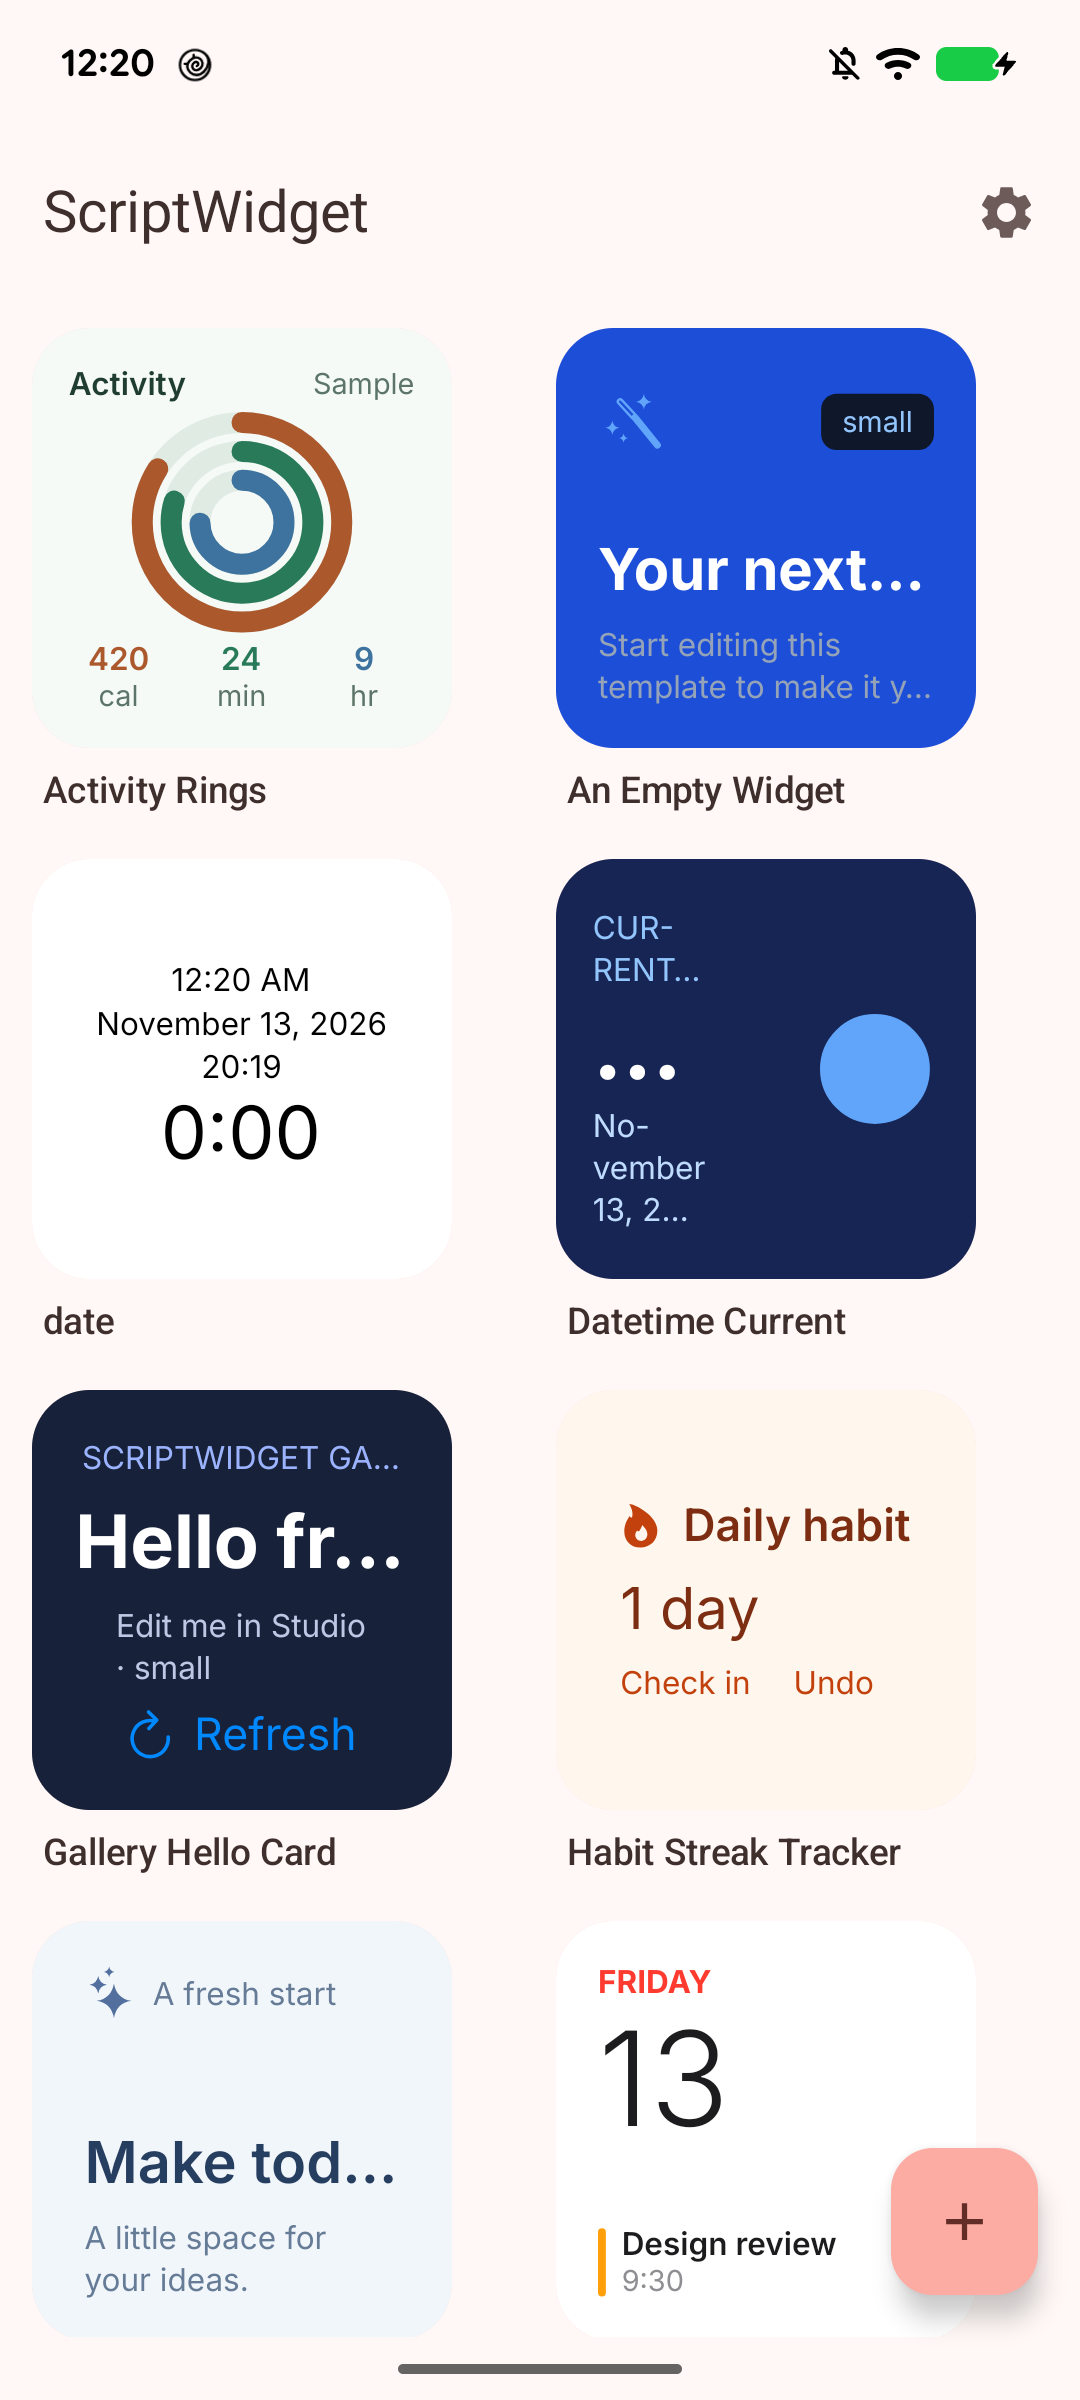
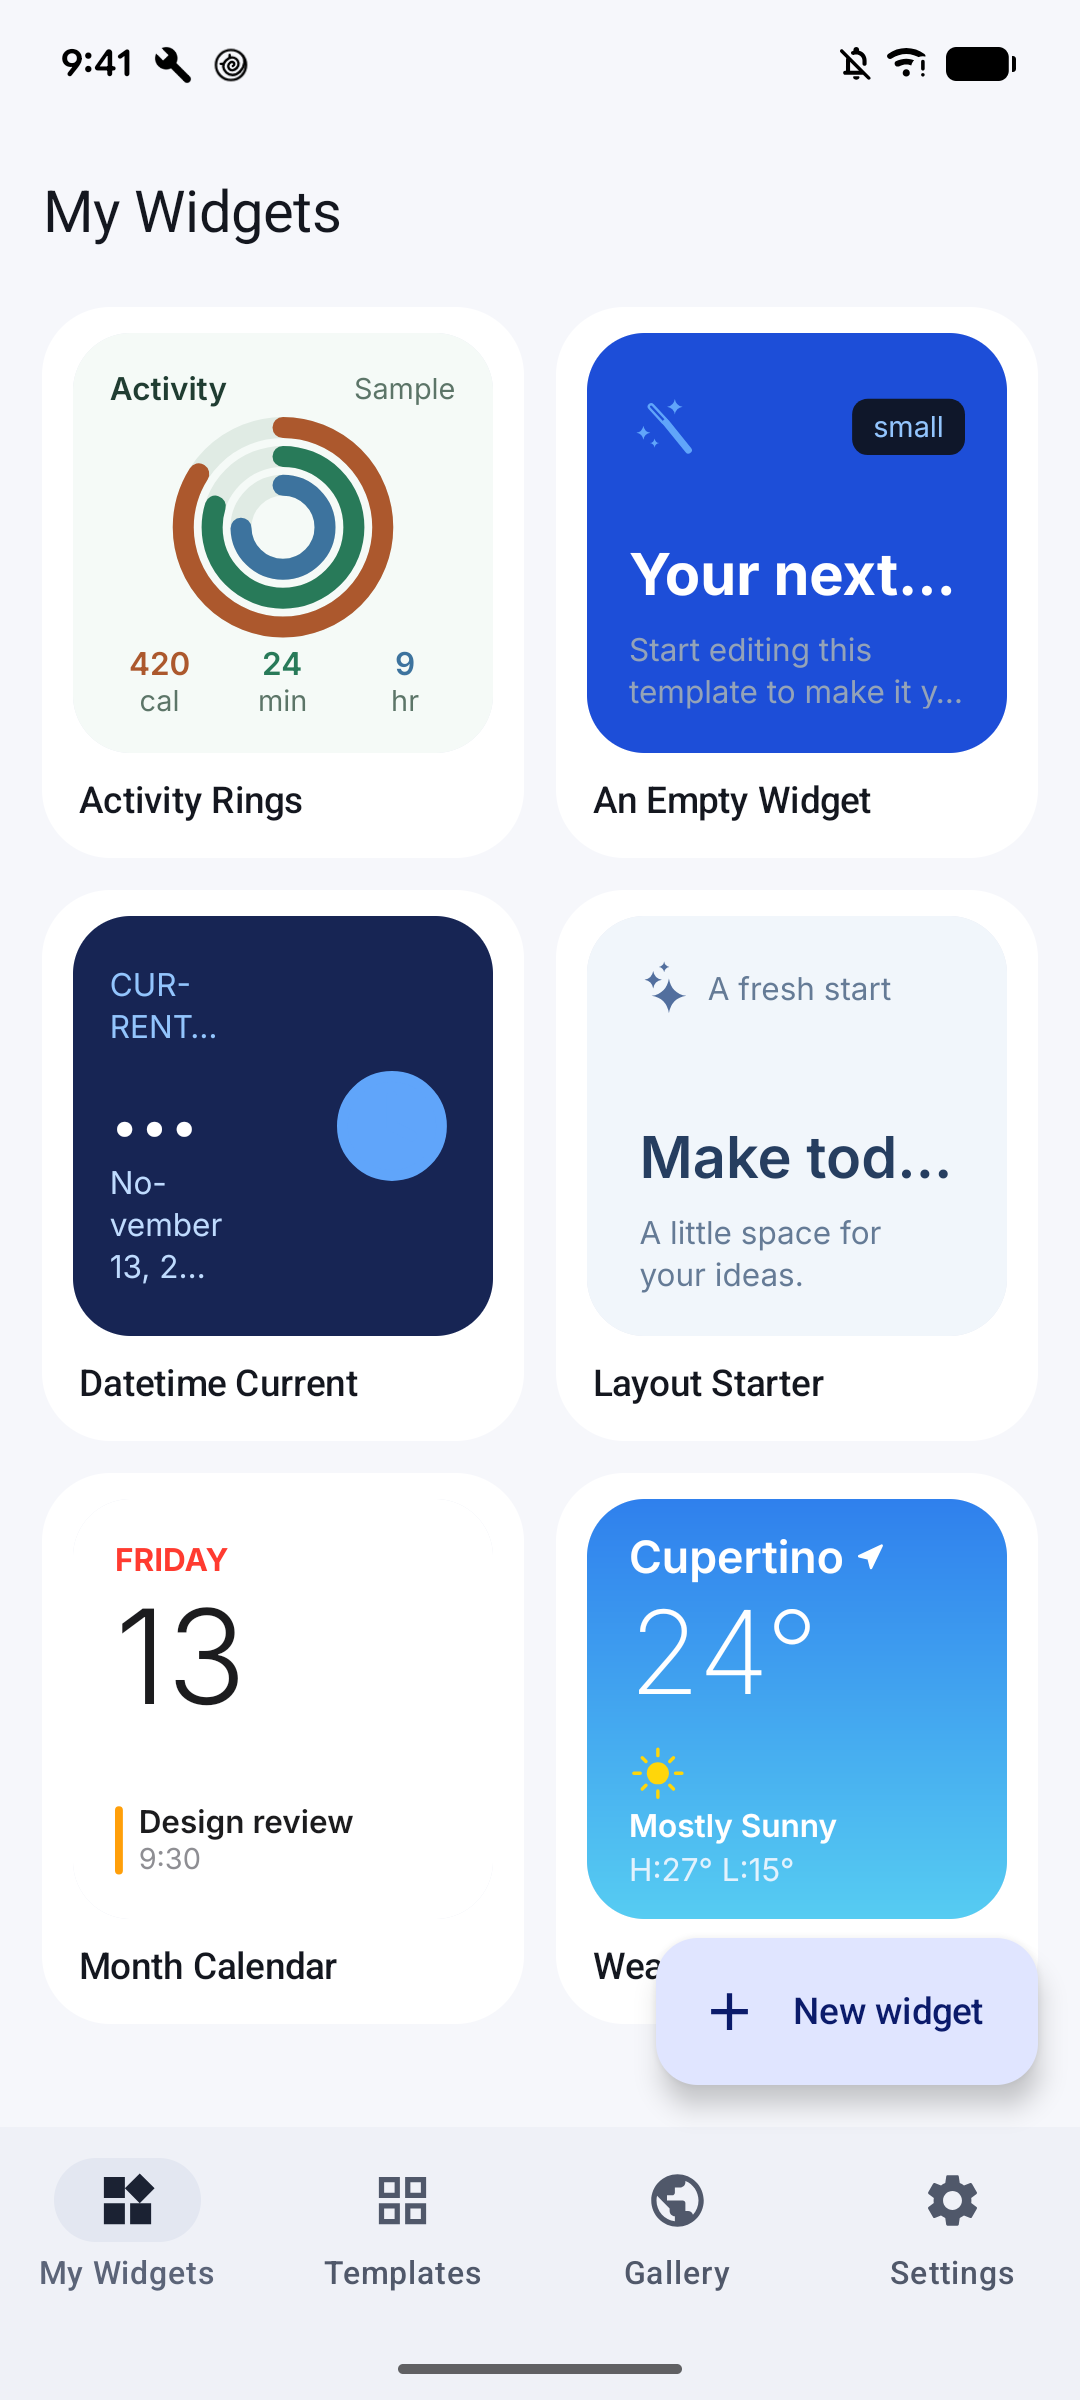
Prepare the Play submission kit for Android build 8
New screenshots from build 8 (two of the first set were not the app),
a feature graphic with the icon artwork, a submission checklist, and
the Firebase project that now belongs to the atomsprout account. Test
notes record the build 8 runs and the push delivery check.

diff --git a/Android/play/listing.md b/Android/play/listing.md
@@ -8,7 +8,8 @@ Everything needed to create the Play Console entry and an internal test release.
 - A new developer account has been created; Google is verifying the owner's identity, which can take a few days. Nothing can be uploaded until then.
 - The package name is now `com.atomsprout.scriptwidget`. Only the application ID changed; the Kotlin namespace is still `com.everettjf.scriptwidget`.
 - Everything below has to be entered again in the new account: the app, testers, the store listing, the App content declarations and a release. The answers used the first time are kept in "Answers used in the first Play Console setup".
-- The Firebase project `scriptwidget-8ac0e` has an Android app registered for the old package name only. Register `com.atomsprout.scriptwidget` there and put its app ID in `Android/firebase.properties`; push has not been tested with the new package name.
+- Firebase: project `scriptwidget-77792`, owned by the `atomsprout@gmail.com` Google account, has the Android app `com.atomsprout.scriptwidget`. Gemini and Analytics are off. `Android/firebase.properties` (git-ignored) holds its values. A test message sent from the Firebase console to the Pixel 6's token was received by the app on 13 November 2026. The first project (`scriptwidget-8ac0e`, under another account) is no longer used.
+- Build 8 (version code 8) is the build to upload: `Android/app/build/outputs/bundle/release/app-release.aab`, signed with the upload key. It has the new package name, the iOS icon and the reworked UI.
 - The upload key is outside the repository; `Android/keystore.properties` (git-ignored) points to it. It can be reused for the new app. Keep a backup of both: every update must be signed with this key.
 
 ## Answers used in the first Play Console setup
@@ -33,7 +34,7 @@ Everything needed to create the Play Console entry and an internal test release.
 | App or game | App |
 | Free or paid | Free |
 | Category | Tools |
-| Version | 1.2.0 (version code 7) |
+| Version | 1.2.0 (version code 8) |
 | Minimum Android | 15 (API 35) |
 | Target API | 36 |
 | Contains ads | No |
@@ -77,15 +78,30 @@ Everything needed to create the Play Console entry and an internal test release.
 
 **Release notes for the internal test:**
 
-> First Android build for internal testing. Small, medium, large and extra-large widgets, the editor, templates, Gallery, AI generation with your own key, Quick Settings tiles, app shortcuts and Live Updates. Tested on a Pixel 6 with Android 17 and on Android 15 and 16 emulators: please report the device and launcher with any problem.
+> First Android build for testing. Small, medium, large and extra-large widgets, the editor, templates with previews, Gallery, AI generation with your own key, Quick Settings tiles, app shortcuts and Live Updates. Tested on a Pixel 6 with Android 17: please report the device and launcher with any problem.
 
 ## Graphics in this folder
 
 | File | Use |
 | --- | --- |
-| `icon-512.png` | App icon, 512 × 512 |
-| `feature-graphic-1024x500.png` | Feature graphic |
-| `screenshots/01-library.png` … `06-home-screen.png` | Phone screenshots, 1080 × 2400, taken on a Pixel 6 |
+| `icon-512.png` | App icon, 512 × 512: the iOS app icon, resized |
+| `feature-graphic-1024x500.png` | Feature graphic: the icon artwork with the name, drawn by a script |
+| `screenshots/01-library.png` … `05-gallery.png` | Phone screenshots, 1080 × 2400, taken on a Pixel 6 from build 8: My Widgets, Templates, a widget's page, the editor, the Gallery |
+| `screenshots/06-home-screen.png` | Two widgets on the home screen, 1080 × 1920 (cropped below the status bar) |
+
+The first upload to Play used two wrong pictures (a Google Lens screen in place of the Gallery and the Templates list). All six were retaken.
+
+Play asks whether each graphic was created or edited with AI. The screenshots are device captures. The feature graphic is composed by a script from the icon. Whether the icon artwork itself was made with AI is for its owner to state.
+
+## Submission checklist (once the developer account is verified)
+
+1. Create the app: ScriptWidget, English (United States), App, Free. The package name comes from the bundle.
+2. Internal testing: create the testers list, create a release, upload `app-release.aab`, paste the release notes below, roll out.
+3. Store listing: name, short and full description from this file; the icon, feature graphic and six screenshots from this folder; answer the AI question as above.
+4. Store settings: category Tools; contact email `atomsprout@gmail.com`; website `https://atomsprout.com/scriptwidget/`.
+5. App content: enter the answers under "Answers used in the first Play Console setup". Health Connect needs a written use for each of the nine permissions; the texts used the first time said that the `$health` API reads the value so a widget the user created or installed can show it, read-only, on the device, with no server.
+6. Install from the opt-in link on a device signed in to a tester account and place a widget.
+7. Closed testing: create the track, add at least 12 testers, and send the release for review. Production access opens after 14 days of closed testing.
 
 ## Data safety form
 

diff --git a/docs/android/TODO.md b/docs/android/TODO.md
@@ -1,13 +1,13 @@
 # Android to-do
 
-What is left after 1.2.0 (build 7). It went to Google Play internal testing on 13 November 2026; that app was then deleted, the package name changed to `com.atomsprout.scriptwidget`, and a new developer account is waiting for identity verification. Tested and untested behavior is in the [test notes](testing.md); the Play Console state is in the [listing kit](../../Android/play/listing.md).
+What is left after 1.2.0 (build 8). It went to Google Play internal testing on 13 November 2026; that app was then deleted, the package name changed to `com.atomsprout.scriptwidget`, and a new developer account is waiting for identity verification. Tested and untested behavior is in the [test notes](testing.md); the Play Console state is in the [listing kit](../../Android/play/listing.md).
 
 ## Not verified yet
 
 | Item | What it needs |
 | --- | --- |
 | Install the internal test build from Google Play and place a widget | A device signed in to a tester's Google account. The Pixel 6 has no account, and its debug-signed app must be uninstalled first (this removes its widgets) |
-| Push while the app is in the background or stopped, with a data-only message | A server that sends through the FCM API. That needs a service account key for the Firebase project `scriptwidget-8ac0e`; creating one needs the owner's approval. Keep the key out of the repository |
+| Push while the app is in the background or stopped, with a data-only message | A server that sends through the FCM API. That needs a service account key for the Firebase project `scriptwidget-77792`; creating one needs the owner's approval. Keep the key out of the repository |
 | A real registration endpoint receiving the device token | A push server reachable over HTTPS and a test package that declares it |
 | `$icloud` sync through a remote cloud provider | A cloud account on two Android devices and a shared folder picked in the app |
 | Other vendors' phones (Samsung, Xiaomi and others): launcher sizes, background limits, alarms | The devices, with USB debugging on. Run `Android/scripts/device-test.sh core` and `app` |
@@ -16,9 +16,8 @@ What is left after 1.2.0 (build 7). It went to Google Play internal testing on 1
 
 ## Google Play, once the new developer account is verified
 
-- Create the app as `com.atomsprout.scriptwidget`, add testers, upload a release and fill in the store listing and App content again. The answers are in the listing kit.
-- Register `com.atomsprout.scriptwidget` as an Android app in the Firebase project `scriptwidget-8ac0e`, update `Android/firebase.properties`, and run `PushDeliveryTest` again. Push is untested with the new package name.
-- Run the instrumented tests on the Pixel 6 with the new package name. After the rename the JVM tests, the builds and the app suite on the Android 15 emulator were run; the core suite was not.
+- Follow the submission checklist in the listing kit: create the app as `com.atomsprout.scriptwidget`, add testers, upload build 8 and fill in the store listing and App content again.
+- Tablets, other launchers and other vendors' phones have not been checked with the reworked UI (see the [UI review](ui-review.md)).
 - Send the first closed testing release for review. Production access needs at least 12 testers opted in to the closed test for at least 14 days.
 - Declare trader status for the developer account if Play asks for it.
 - Decide whether to keep Play's automatic protection (installer check), which matters if an APK is also distributed.

diff --git a/docs/android/testing.md b/docs/android/testing.md
@@ -1,4 +1,4 @@
-# Android test notes (1.2.0, build 7)
+# Android test notes (1.2.0, build 8)
 
 What was run before handing this build to testers, and what was not.
 
@@ -12,7 +12,9 @@ What was run before handing this build to testers, and what was not.
 
 Every suite was run with the final code (build 6) on every device below. Build 7 has the same code plus the Firebase configuration and a test hook in `Push`; with it the JVM tests passed and the app suite passed on the Pixel 6 (60 tests, the two that need a key or a push wait skipped). Build 7 was not re-run on the emulators. What is left is in the [to-do list](TODO.md).
 
-After the application ID changed to `com.atomsprout.scriptwidget` (13 November 2026) the JVM tests passed, the debug and release builds carried the new package name, and the app suite passed on the Android 15 emulator (60 tests; the push delivery and picked-folder tests skip there). One test had assumed that class names start with the application ID and was corrected. With the new ID the core suite, the Pixel 6, the Android 16 emulator and push delivery have not been run.
+After the application ID changed to `com.atomsprout.scriptwidget` (13 November 2026) the JVM tests passed, the debug and release builds carried the new package name, and the app suite passed on the Android 15 emulator (60 tests; the push delivery and picked-folder tests skip there). One test had assumed that class names start with the application ID and was corrected. With the new ID the Android 16 emulator has not been run.
+
+Build 8 (the new icon and the reworked UI, see the [UI review](ui-review.md)) was run on the Pixel 6 only: JVM tests passed, the app suite passed (60 tests, the live-model and push-wait tests skipped). The core suite passed (27 tests) just before the UI changes, which did not touch the core module. `PushDeliveryTest` then passed with the new Firebase project `scriptwidget-77792` and the new package name: the app was in the foreground and received a test message sent from the Firebase console to the device's token, with `packageID` and `channel` as custom data. A campaign sent to all installs of the app ten minutes earlier had not arrived by then. The emulators were not re-run with build 8.
 
 | Device | Android | Core | App |
 | --- | --- | --- | --- |
